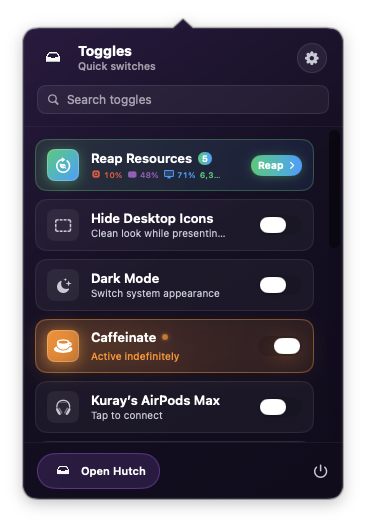
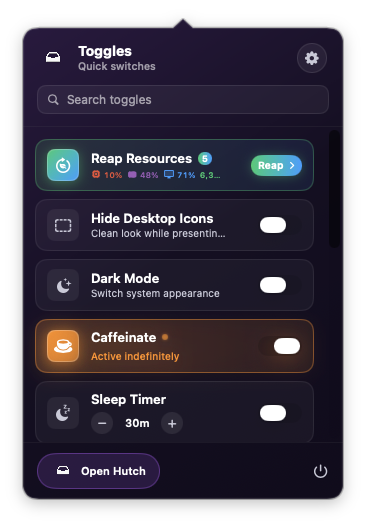
site: update Toggles screenshot to new toggle order

Changed region(s): [[0.2404, 0.73, 0.6011, 0.8213], [0.6913, 0.7605, 0.7814, 0.8213], [0.1503, 0.7605, 0.2104, 0.8213]]

diff --git a/index.html b/index.html
@@ -183,7 +183,7 @@
           </ul>
         </div>
         <figure class="stage narrow glow-amber">
-          <img src="screenshots/toggles.png" alt="The Toggles popover with a Reap Resources action row plus switches for Hide Desktop Icons, Dark Mode, Caffeinate and AirPods"
+          <img src="screenshots/toggles.png" alt="The Toggles popover with a Reap Resources action row plus switches for Hide Desktop Icons, Dark Mode, Caffeinate and a Sleep Timer"
                width="320" height="480" loading="lazy" decoding="async" />
         </figure>
       </div>
